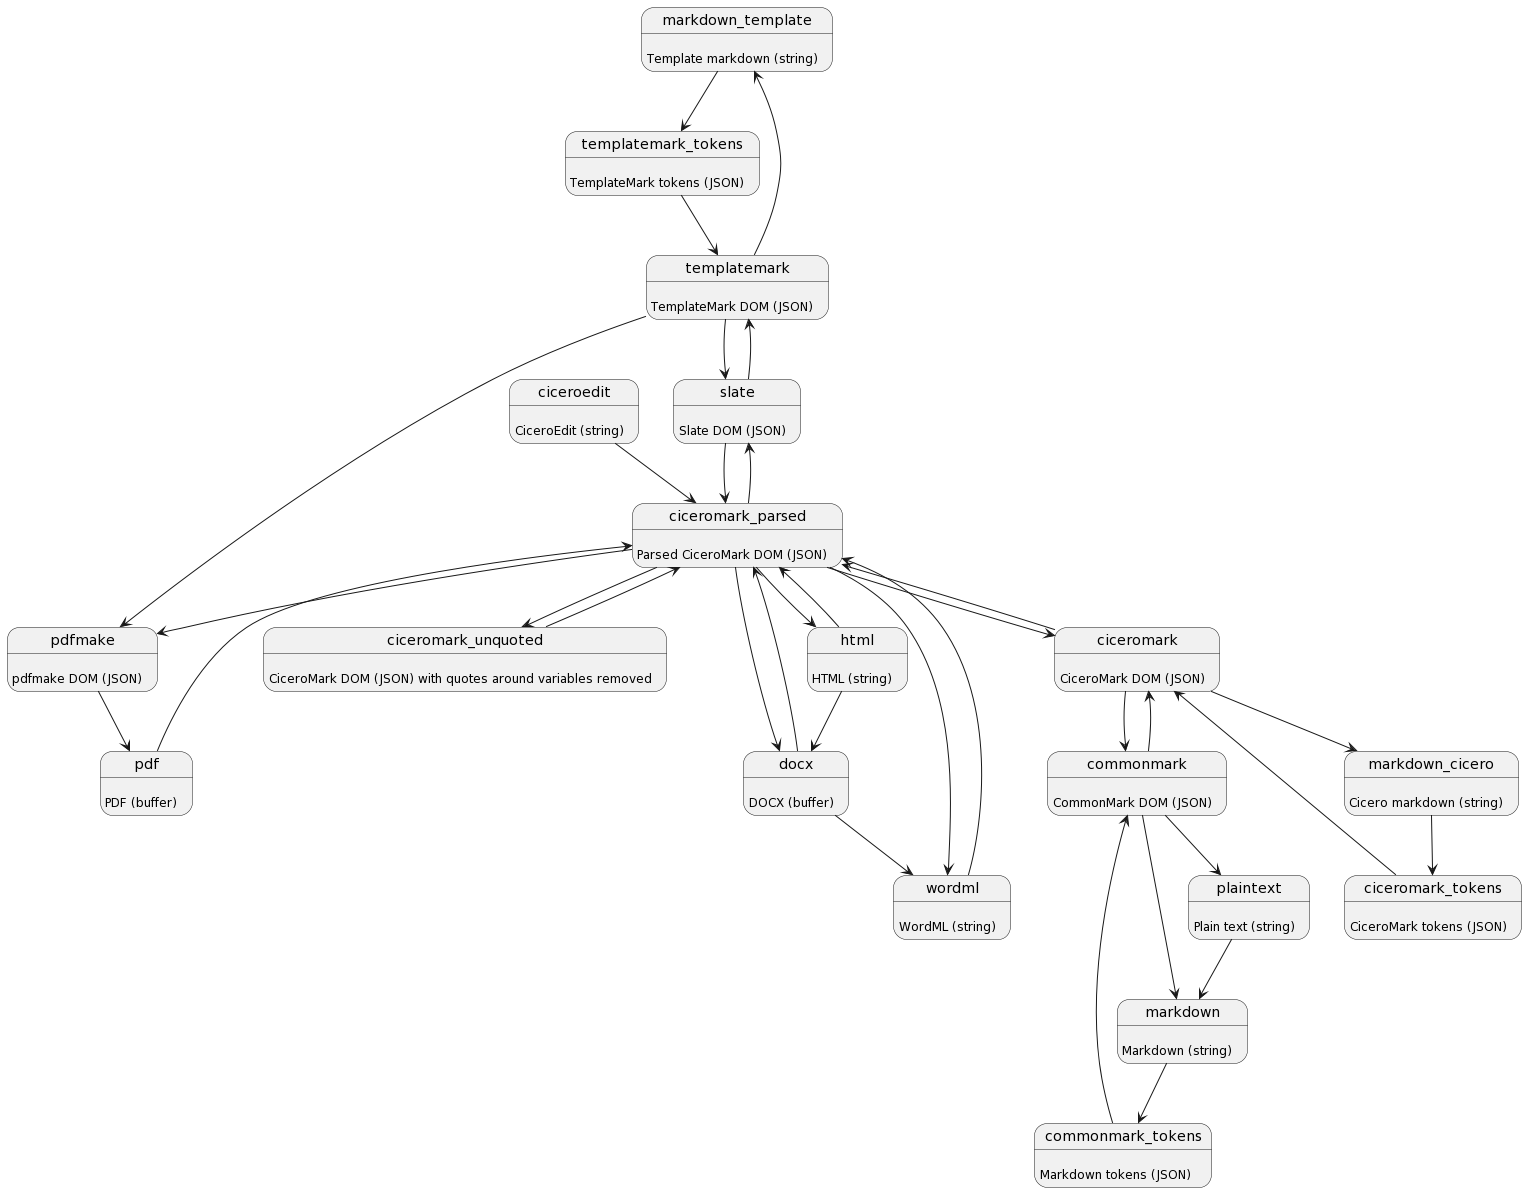
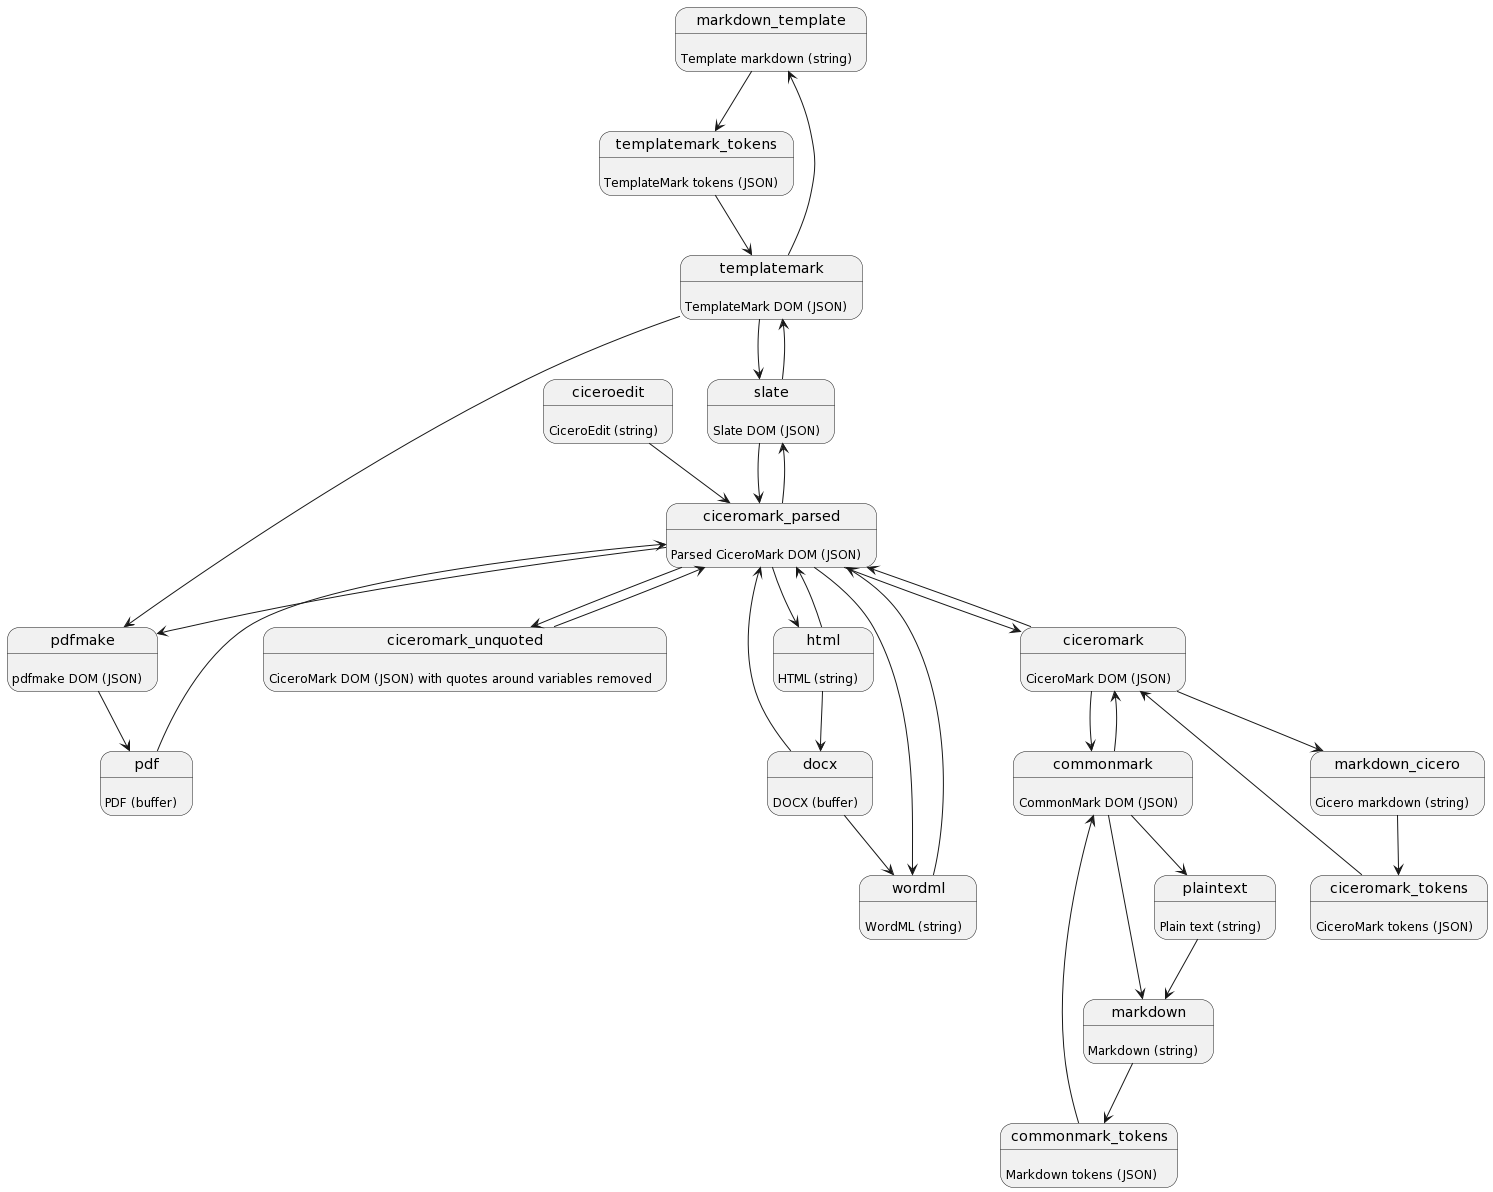
fix(transform) remove bad transform

diff --git a/packages/markdown-transform/src/builtinTransforms.js b/packages/markdown-transform/src/builtinTransforms.js
@@ -199,14 +199,6 @@ const transformationGraph = {
             return zip.file('word/document.xml').async('string');
         }
     },
-    wordml: {
-        docs: 'WordML (string)',
-        fileFormat: 'utf8',
-        ciceromark_parsed: async (input, parameters, options) => {
-            const t = new DocxTransformer();
-            return t.toCiceroMark(input, options);
-        },
-    },
     html: {
         docs: 'HTML (string)',
         fileFormat: 'utf8',
